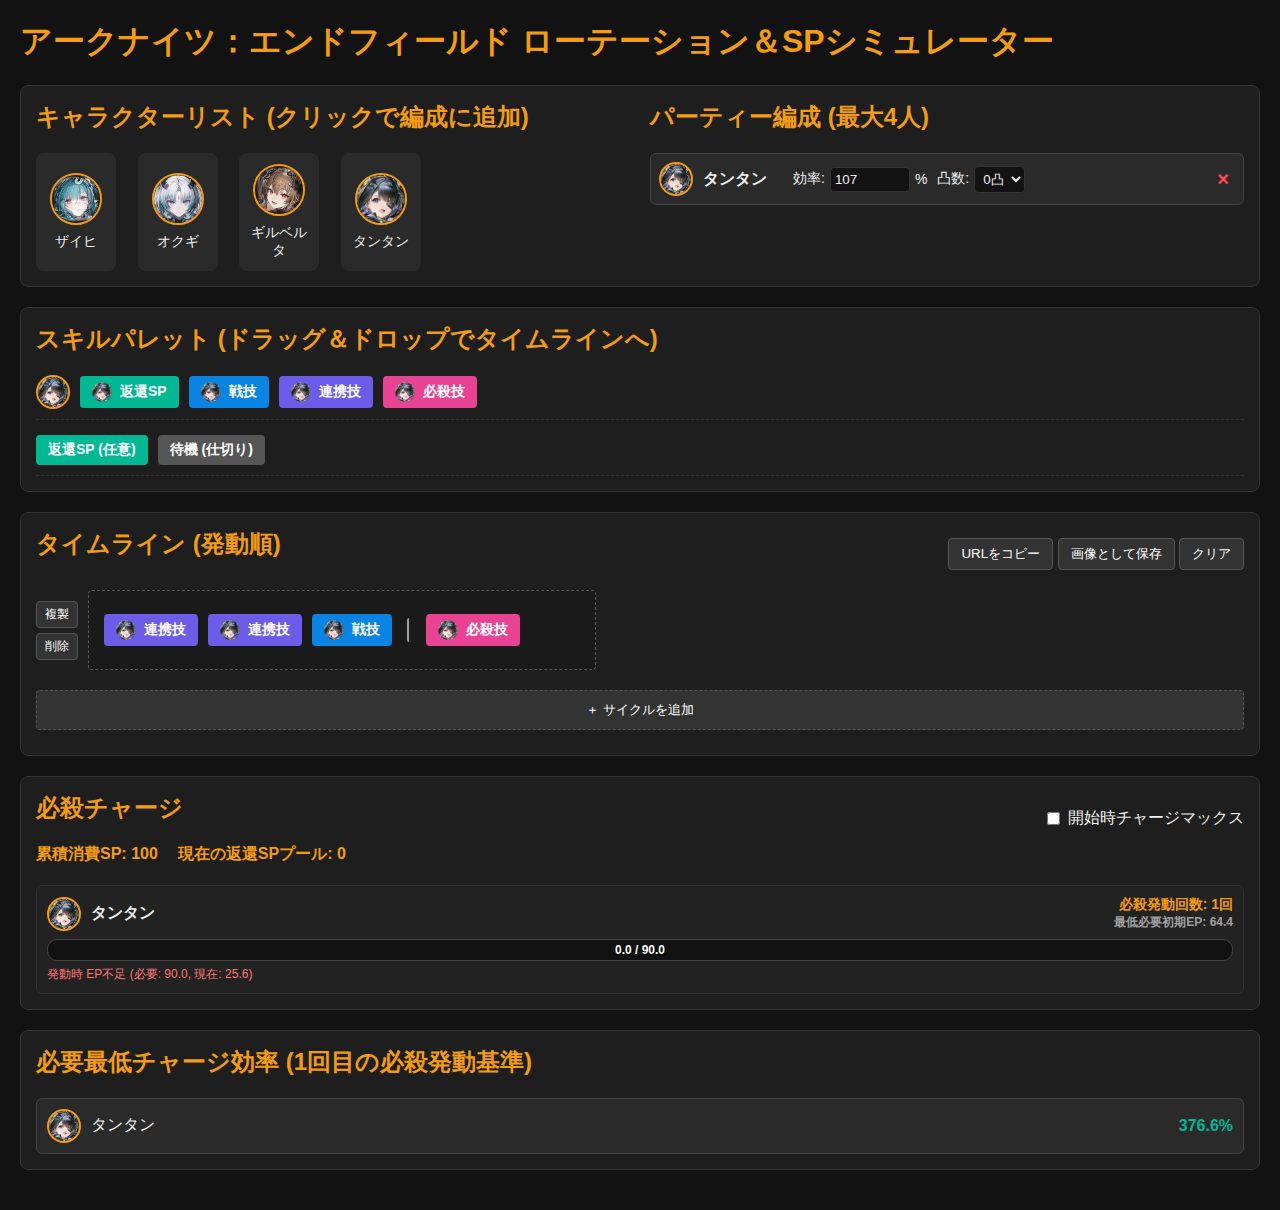
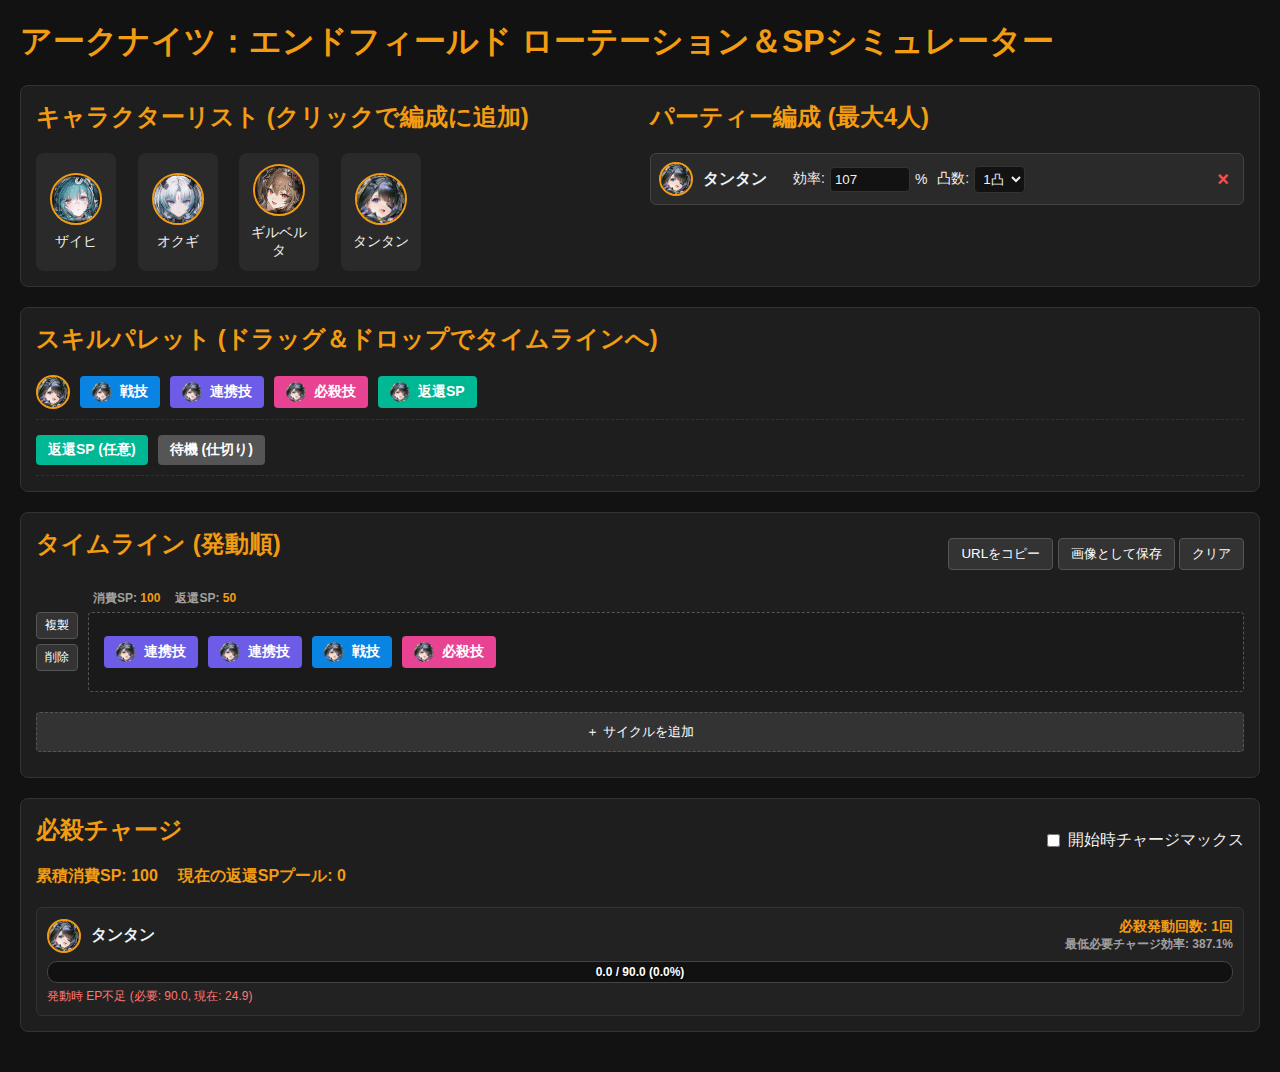
feat: Tangtang dynamic refund, Multi-cycle timeline, and Minimum Efficiency
- Fixed Tangtang's refund SP: Calculates dynamically based on preceding combo casts (max 2) and reflects properly in UI and blocks (20/40 SP, or 25/50 at pot1+).
- Refactored timeline sequence into a 2D array (`timelineCycles`) to support multiple cycle blocks.
- Added visual Separator (`待機`) block.
- Implemented state export via URL hash (Base64) and UI export via html2canvas image.
- Implemented Reverse EP Calculation to display Min Initial EP required and Minimum Required Charge Efficiency.
- Configured default potentials for characters (Tangtang 1, Okugi 1, Zaihi 4).
- Added cycle-specific SP metrics above each cycle block.
- Updated Gilberta's ult reduction to correctly map to potential 4.
- Added V4 Prompt rules and Changelog documentation in `Prompt/`.

diff --git a/app.js b/app.js
@@ -104,15 +104,28 @@ function addToParty(charData) {
   }
 
   let defaultEfficiency = 100;
-  if (charData.name === 'タンタン') defaultEfficiency = 107;
-  if (charData.name === 'ギルベルタ') defaultEfficiency = 202.9;
-  if (charData.name === 'オクギ') defaultEfficiency = 153.4;
-  if (charData.name === 'ザイヒ') defaultEfficiency = 133.7;
+  let defaultPotential = 0;
+
+  if (charData.name === 'タンタン') {
+     defaultEfficiency = 107;
+     defaultPotential = 1;
+  }
+  if (charData.name === 'ギルベルタ') {
+     defaultEfficiency = 202.9;
+  }
+  if (charData.name === 'オクギ') {
+     defaultEfficiency = 153.4;
+     defaultPotential = 1;
+  }
+  if (charData.name === 'ザイヒ') {
+     defaultEfficiency = 133.7;
+     defaultPotential = 4;
+  }
 
   party.push({
     ...charData,
-    efficiency: defaultEfficiency, // Default updated per requirement
-    potential: 0 // Default 0凸
+    efficiency: defaultEfficiency,
+    potential: defaultPotential
   });
 
   renderParty();
@@ -194,18 +207,6 @@ function renderPalette() {
     // Icon header
     group.innerHTML = `<img src="${p.icon}" class="char-icon" style="margin:0; width:30px; height:30px;">`;
 
-    // Refund Panel (if applicable)
-    if (p.baseRefundSP > 0 || (p.potentials && p.potentials.some(pot => pot.type === 'refund_sp_boost')) || p.name === 'タンタン') {
-      const refundEl = createDraggableBlock({
-        type: 'refund',
-        charId: p.id,
-        charName: p.name,
-        icon: p.icon
-      }, `返還SP`);
-      refundEl.classList.add('bg-refund');
-      group.appendChild(refundEl);
-    }
-
     // Skills
     p.skills.forEach(s => {
       const skillEl = createDraggableBlock({
@@ -221,6 +222,18 @@ function renderPalette() {
       if (s.type === 'ult') skillEl.classList.add('bg-ult');
       group.appendChild(skillEl);
     });
+
+    // Refund Panel (if applicable) - Moved to far right
+    if (p.baseRefundSP > 0 || (p.potentials && p.potentials.some(pot => pot.type === 'refund_sp_boost')) || p.name === 'タンタン') {
+      const refundEl = createDraggableBlock({
+        type: 'refund',
+        charId: p.id,
+        charName: p.name,
+        icon: p.icon
+      }, `返還SP`);
+      refundEl.classList.add('bg-refund');
+      group.appendChild(refundEl);
+    }
 
     container.appendChild(group);
   });
@@ -476,8 +489,22 @@ function renderTimeline() {
       timeline.appendChild(dropEnd);
     }
 
+    const statsDiv = document.createElement('div');
+    statsDiv.className = 'cycle-stats';
+    statsDiv.id = `cycle-stats-${cycleIndex}`;
+    statsDiv.innerHTML = `<div>消費SP: <span class="sp-spent">0</span></div><div>返還SP: <span class="sp-refund">0</span></div>`;
+
+    const timelineContainer = document.createElement('div');
+    timelineContainer.style.display = 'flex';
+    timelineContainer.style.flexDirection = 'column';
+    timelineContainer.style.gap = '5px';
+    timelineContainer.style.flexGrow = '1';
+
+    timelineContainer.appendChild(statsDiv);
+    timelineContainer.appendChild(timeline);
+
     cycleWrap.appendChild(controls);
-    cycleWrap.appendChild(timeline);
+    cycleWrap.appendChild(timelineContainer);
     wrapper.appendChild(cycleWrap);
   });
 
@@ -558,84 +585,99 @@ function updateSimulation() {
     };
   });
 
-  // Process sequence (flatten cycles for simulation)
-  const flatSequence = timelineCycles.flat();
-  flatSequence.forEach((step, index) => {
-    const stats = getCharacterStats(step.charId);
-    if (step.type === 'separator') return;
-    if (step.type !== 'refund' && !stats) return;
+  // Process sequence cycle by cycle
+  timelineCycles.forEach((cycle, cycleIndex) => {
+    let cycleSpSpent = 0;
+    let cycleRefundSp = 0;
 
-    if (step.type === 'refund') {
-      let baseVal = stats ? stats.refundSP : 0;
-      if (step.charId === 'タンタン') {
-        const p = party.find(x => x.id === 'タンタン');
-        if (p) {
-          let recentCombos = Math.min(2, tangtangComboCount);
-          let refundPerCombo = p.potential >= 1 ? 25 : 20;
-          baseVal = recentCombos * refundPerCombo;
-          tangtangComboCount = 0; // consumed by the explicit refund block
-        }
-      }
-      const refundVal = step.customRefund !== undefined ? step.customRefund : baseVal;
-      currentRefundSpPool += refundVal;
-    } else if (step.type === 'skill') {
-      const s = step.skillData;
+    cycle.forEach((step, index) => {
+      const stats = getCharacterStats(step.charId);
+      if (step.type === 'separator') return;
+      if (step.type !== 'refund' && !stats) return;
 
-      if (s.type === 'skill') {
-        // Tangtang custom logic for refund on skill use
+      if (step.type === 'refund') {
+        let baseVal = stats ? stats.refundSP : 0;
         if (step.charId === 'タンタン') {
           const p = party.find(x => x.id === 'タンタン');
           if (p) {
+            let recentCombos = Math.min(2, tangtangComboCount);
             let refundPerCombo = p.potential >= 1 ? 25 : 20;
-            let activeCombos = Math.min(2, tangtangComboCount);
-            currentRefundSpPool += activeCombos * refundPerCombo;
+            baseVal = recentCombos * refundPerCombo;
+            tangtangComboCount = 0; // consumed by the explicit refund block
           }
-          tangtangComboCount = 0;
         }
+        const refundVal = step.customRefund !== undefined ? step.customRefund : baseVal;
+        currentRefundSpPool += refundVal;
+        cycleRefundSp += refundVal;
+      } else if (step.type === 'skill') {
+        const s = step.skillData;
 
-        totalSpSpent += s.spCost;
-        let epBase = 6.5;
-        let consumedRefund = 0;
-
-        if (currentRefundSpPool > 0) {
-          consumedRefund = Math.min(currentRefundSpPool, s.spCost);
-          currentRefundSpPool -= consumedRefund;
-          epBase = ((s.spCost - consumedRefund) / s.spCost) * 6.5;
-        }
-
-        party.forEach(p => {
-          const pStats = getCharacterStats(p.id);
-          const gain = epBase * pStats.efficiency;
-          epState[p.id].current += gain;
-          if (!epState[p.id].hasCastUlt) {
-            epState[p.id].epGainedBeforeFirstUlt += gain;
-            epState[p.id].baseEpGainedBeforeFirstUlt += epBase;
+        if (s.type === 'skill') {
+          // Tangtang custom logic for refund on skill use
+          if (step.charId === 'タンタン') {
+            const p = party.find(x => x.id === 'タンタン');
+            if (p) {
+              let refundPerCombo = p.potential >= 1 ? 25 : 20;
+              let activeCombos = Math.min(2, tangtangComboCount);
+              const autoRefund = activeCombos * refundPerCombo;
+              currentRefundSpPool += autoRefund;
+              cycleRefundSp += autoRefund;
+            }
+            tangtangComboCount = 0;
           }
-        });
 
-      } else if (s.type === 'combo') {
-        if (step.charId === 'タンタン') {
-          tangtangComboCount++;
-        }
-        const gain = 10 * stats.efficiency;
-        epState[step.charId].current += gain;
-        if (!epState[step.charId].hasCastUlt) {
-            epState[step.charId].epGainedBeforeFirstUlt += gain;
-            epState[step.charId].baseEpGainedBeforeFirstUlt += 10;
-        }
-      } else if (s.type === 'ult') {
-        let cost = s.epCost;
-        if (stats.ultCostReduction > 0) {
-          cost = cost * (1 - stats.ultCostReduction / 100);
-        }
+          totalSpSpent += s.spCost;
+          cycleSpSpent += s.spCost;
+          let epBase = 6.5;
+          let consumedRefund = 0;
 
-        if (epState[step.charId].current < cost) {
-          epState[step.charId].warnings.push(`発動時 EP不足 (必要: ${cost.toFixed(1)}, 現在: ${epState[step.charId].current.toFixed(1)})`);
+          if (currentRefundSpPool > 0) {
+            consumedRefund = Math.min(currentRefundSpPool, s.spCost);
+            currentRefundSpPool -= consumedRefund;
+            epBase = ((s.spCost - consumedRefund) / s.spCost) * 6.5;
+          }
+
+          party.forEach(p => {
+            const pStats = getCharacterStats(p.id);
+            const gain = epBase * pStats.efficiency;
+            epState[p.id].current += gain;
+            if (!epState[p.id].hasCastUlt) {
+              epState[p.id].epGainedBeforeFirstUlt += gain;
+              epState[p.id].baseEpGainedBeforeFirstUlt += epBase;
+            }
+          });
+
+        } else if (s.type === 'combo') {
+          if (step.charId === 'タンタン') {
+            tangtangComboCount++;
+          }
+          const gain = 10 * stats.efficiency;
+          epState[step.charId].current += gain;
+          if (!epState[step.charId].hasCastUlt) {
+              epState[step.charId].epGainedBeforeFirstUlt += gain;
+              epState[step.charId].baseEpGainedBeforeFirstUlt += 10;
+          }
+        } else if (s.type === 'ult') {
+          let cost = s.epCost;
+          if (stats.ultCostReduction > 0) {
+            cost = cost * (1 - stats.ultCostReduction / 100);
+          }
+
+          if (epState[step.charId].current < cost) {
+            epState[step.charId].warnings.push(`発動時 EP不足 (必要: ${cost.toFixed(1)}, 現在: ${epState[step.charId].current.toFixed(1)})`);
+          }
+          epState[step.charId].current = 0;
+          epState[step.charId].ultCount += 1;
+          epState[step.charId].hasCastUlt = true;
         }
-        epState[step.charId].current = 0;
-        epState[step.charId].ultCount += 1;
-        epState[step.charId].hasCastUlt = true;
       }
+    });
+
+    // Update cycle stats UI
+    const cycleStatsDiv = document.getElementById(`cycle-stats-${cycleIndex}`);
+    if (cycleStatsDiv) {
+        cycleStatsDiv.querySelector('.sp-spent').textContent = cycleSpSpent;
+        cycleStatsDiv.querySelector('.sp-refund').textContent = cycleRefundSp;
     }
   });
 
@@ -677,51 +719,19 @@ function renderStatus(totalSpSpent, currentRefundSpPool, epState) {
         </div>
         <div style="display: flex; flex-direction: column; align-items: flex-end;">
             <span style="color: #f39c12; font-size: 14px;">必殺発動回数: ${state.ultCount}回</span>
-            ${state.hasCastUlt ? `<span style="color: #a0a0a0; font-size: 12px;">最低必要初期EP: ${Math.max(0, state.firstUltCost - state.epGainedBeforeFirstUlt).toFixed(1)}</span>` : ''}
+            ${state.hasCastUlt ? (state.baseEpGainedBeforeFirstUlt > 0 ? `<span style="color: #a0a0a0; font-size: 12px;">最低必要チャージ効率: ${((state.firstUltCost / state.baseEpGainedBeforeFirstUlt) * 100).toFixed(1)}%</span>` : `<span style="color: #a0a0a0; font-size: 12px;">最低必要チャージ効率: 計算不可</span>`) : `<span style="color: #a0a0a0; font-size: 12px;">最低必要チャージ効率: 必殺未発動</span>`}
         </div>
       </div>
       <div class="ep-bar-container">
         <div class="ep-bar" style="width: ${percentage}%;"></div>
-        <div class="ep-text">${state.current.toFixed(1)} / ${maxEp.toFixed(1)}</div>
+        <div class="ep-text">${state.current.toFixed(1)} / ${maxEp.toFixed(1)} (${percentage.toFixed(1)}%)</div>
       </div>
       ${warningHtml}
     `;
     container.appendChild(row);
   });
 
-  const analysisContainer = document.getElementById('efficiency-analysis-list');
-  if (analysisContainer) {
-    analysisContainer.innerHTML = '';
-    party.forEach(p => {
-      const state = epState[p.id];
-      const row = document.createElement('div');
-      row.className = 'analysis-row';
 
-      let reqEffText = "必殺未発動";
-      let resClass = "";
-
-      if (state.hasCastUlt) {
-        if (state.baseEpGainedBeforeFirstUlt > 0) {
-           let requiredEfficiency = (state.firstUltCost / state.baseEpGainedBeforeFirstUlt) * 100;
-           reqEffText = `${requiredEfficiency.toFixed(1)}%`;
-        } else {
-           reqEffText = "計算不可 (基礎獲得EPが0)";
-           resClass = "not-possible";
-        }
-      }
-
-      row.innerHTML = `
-        <div class="analysis-info">
-          <img src="${p.icon}" class="char-icon" style="margin:0; width:30px; height:30px;">
-          <span>${p.name}</span>
-        </div>
-        <div class="analysis-result ${resClass}">
-          ${reqEffText}
-        </div>
-      `;
-      analysisContainer.appendChild(row);
-    });
-  }
 }
 window.renderTimeline = renderTimeline;
 

diff --git a/index.html b/index.html
@@ -75,13 +75,7 @@
       </div>
     </section>
 
-    <!-- 最低必要チャージ効率パネル -->
-    <section class="panel analysis-panel">
-      <h2>必要最低チャージ効率 (1回目の必殺発動基準)</h2>
-      <div id="efficiency-analysis-list" class="analysis-container">
-        <!-- 各キャラの必要効率 -->
-      </div>
-    </section>
+
   </main>
 
   <script src="app.js"></script>

diff --git a/style.css b/style.css
@@ -142,3 +142,15 @@ h1, h2 { color: var(--accent); margin-top: 0; }
 .bg-separator span {
   display: none;
 }
+
+.cycle-stats {
+  display: flex;
+  gap: 15px;
+  font-size: 12px;
+  color: #a0a0a0;
+  margin-left: 5px;
+  font-weight: bold;
+}
+.cycle-stats span {
+  color: #f39c12;
+}
